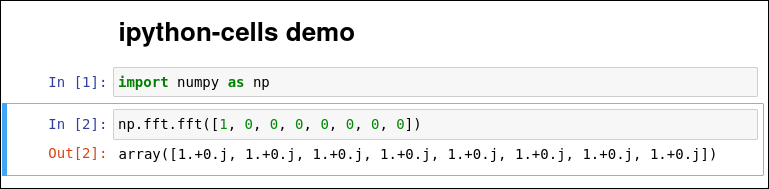
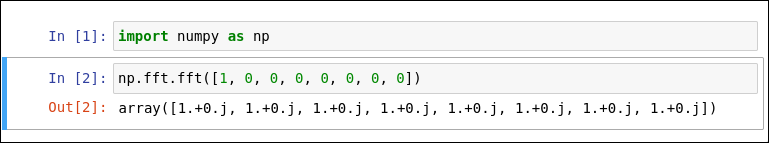
update readme

diff --git a/README.md b/README.md
@@ -2,11 +2,11 @@
 
 This is an IPython extension for those who prefer to work in a terminal but still need the cell-by-cell execution provided by a Jupyter notebook.
 
-In Jupyter Notebook:
+Example Jupyter notebook:
 
 ![](notebook.png)
 
-With ipython-cells:
+Running exported notebook with ipython-cells:
 
 ![](commandline.png)
 
